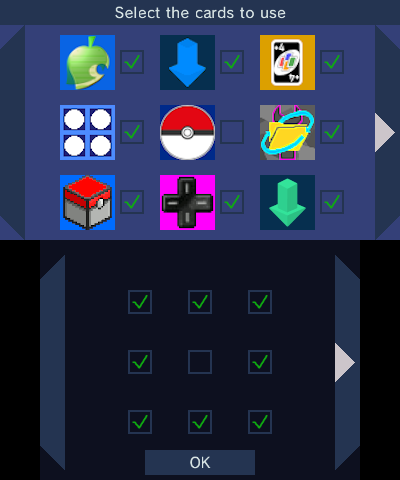
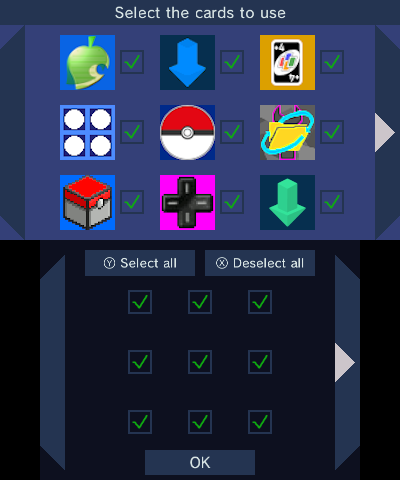
Add Select / Deselect all on the CardSelector Overlay.

Changed region(s): [[0.21, 0.5, 0.81, 0.5938], [0.57, 0.25, 0.6, 0.2812], [0.48, 0.75, 0.51, 0.7812]]

diff --git a/3ds/source/Overlays/Selectors/CardSelector.cpp b/3ds/source/Overlays/Selectors/CardSelector.cpp
@@ -48,6 +48,18 @@ void CardSelector::ToggleCard(const uint8_t Idx) {
 };
 
 
+/* Select ALL cards. */
+void CardSelector::SelectAll() {
+	for (size_t Idx = 0; Idx < this->Cards.size(); Idx++) this->Cards[Idx].first = true;
+};
+
+
+/* De-Select ALL cards. */
+void CardSelector::SelectNone() {
+	for (size_t Idx = 0; Idx < this->Cards.size(); Idx++) this->Cards[Idx].first = false;
+};
+
+
 /* Go to the previous page. */
 void CardSelector::PrevPage() {
 	if (this->Page > 0) {
@@ -218,13 +230,20 @@ void CardSelector::DrawBottom() {
 	/* Draw the Checkboxes. */
 	for (size_t Idx = (this->Page * 9), Idx2 = 0; Idx < (this->Page * 9) + 9 && Idx < this->Cards.size(); Idx++, Idx2++) {
 		GFX::DrawCheckbox(this->BottomPos[Idx2 + 2].X, this->BottomPos[Idx2 + 2].Y, this->Cards[Idx].first);
-	}
+	};
 
 	Gui::Draw_Rect(this->BottomPos[11].X, this->BottomPos[11].Y, this->BottomPos[11].W, this->BottomPos[11].H, BAR_BLUE);
 	Gui::DrawStringCentered(0, this->BottomPos[11].Y + 3, 0.6f, TEXT_WHITE, Lang::Get("OK"));
+
+	/* Select All / Deselect All. */
+	Gui::Draw_Rect(this->BottomPos[12].X, this->BottomPos[12].Y, this->BottomPos[12].W, this->BottomPos[12].H, BAR_BLUE, 100);
+	Gui::DrawStringCentered(-60, this->BottomPos[12].Y + 5, 0.5f, TEXT_WHITE, Lang::Get("SELECT_ALL"));
+	Gui::Draw_Rect(this->BottomPos[13].X, this->BottomPos[13].Y, this->BottomPos[13].W, this->BottomPos[13].H, BAR_BLUE, 100);
+	Gui::DrawStringCentered(60, this->BottomPos[13].Y + 5, 0.5f, TEXT_WHITE, Lang::Get("DESELECT_ALL"));
+
 	if (_3DZwei::CFG->DoAnimation() && _3DZwei::CFG->DoFade()) {
 		if (this->FAlpha > 0) Gui::Draw_Rect(0, 0, 320, 240, C2D_Color32(0, 0, 0, this->FAlpha));
-	}
+	};
 };
 
 
@@ -254,6 +273,9 @@ void CardSelector::Action() {
 
 			if (Repeat & KEY_L) this->PrevPage();
 			if (Repeat & KEY_R) this->NextPage();
+
+			if (Down & KEY_Y) this->SelectAll();
+			if (Down & KEY_X) this->SelectNone();
 
 			if (Repeat & KEY_A) {
 				for (auto &Position : this->Positions) {

diff --git a/3ds/source/Overlays/Selectors/CharacterSetSelector.cpp b/3ds/source/Overlays/Selectors/CharacterSetSelector.cpp
@@ -230,9 +230,9 @@ void CharacterSetSelector::DrawSetList(const int AddOffs) {
 void CharacterSetSelector::DrawCharBottom(const int AddOffs) {
 	/* Draw Cancel and Confirm buttons. */
 	Gui::Draw_Rect(this->BottomPos[2].X + AddOffs, this->BottomPos[2].Y, this->BottomPos[2].W, this->BottomPos[2].H, BAR_BLUE);
-	Gui::DrawStringCentered(-60 + AddOffs, this->BottomPos[2].Y + 15, 0.6f, TEXT_WHITE, Lang::Get("CANCEL"));
+	Gui::DrawStringCentered(-60 + AddOffs, this->BottomPos[2].Y + 15, 0.6f, TEXT_WHITE, Lang::Get("CANCEL"), 100);
 	Gui::Draw_Rect(this->BottomPos[3].X + AddOffs, this->BottomPos[3].Y, this->BottomPos[3].W, this->BottomPos[3].H, BAR_BLUE);
-	Gui::DrawStringCentered(60 + AddOffs, this->BottomPos[3].Y + 15, 0.6f, TEXT_WHITE, Lang::Get("CONFIRM"));
+	Gui::DrawStringCentered(60 + AddOffs, this->BottomPos[3].Y + 15, 0.6f, TEXT_WHITE, Lang::Get("CONFIRM"), 100);
 
 	GFX::DrawCornerEdge(true, this->BottomPos[0].X + AddOffs, this->BottomPos[0].Y, this->BottomPos[0].H, this->CharPage >= 1);
 	GFX::DrawCornerEdge(false, this->BottomPos[1].X + AddOffs, this->BottomPos[1].Y, this->BottomPos[1].H, this->CanGoNext());

diff --git a/3ds/source/Overlays/Selectors/CardSetSelector.cpp b/3ds/source/Overlays/Selectors/CardSetSelector.cpp
@@ -254,9 +254,9 @@ void CardSetSelector::DrawCardBottom(const int AddOffs) {
 
 	/* Draw Cancel and Confirm buttons. */
 	Gui::Draw_Rect(this->BottomPos[11].X + AddOffs, this->BottomPos[11].Y, this->BottomPos[11].W, this->BottomPos[11].H, BAR_BLUE);
-	Gui::DrawStringCentered(-60 + AddOffs, this->BottomPos[11].Y + 3, 0.6f, TEXT_WHITE, Lang::Get("CANCEL"));
+	Gui::DrawStringCentered(-60 + AddOffs, this->BottomPos[11].Y + 3, 0.6f, TEXT_WHITE, Lang::Get("CANCEL"), 100);
 	Gui::Draw_Rect(this->BottomPos[12].X + AddOffs, this->BottomPos[12].Y, this->BottomPos[12].W, this->BottomPos[12].H, BAR_BLUE);
-	Gui::DrawStringCentered(60 + AddOffs, this->BottomPos[12].Y + 3, 0.6f, TEXT_WHITE, Lang::Get("CONFIRM"));
+	Gui::DrawStringCentered(60 + AddOffs, this->BottomPos[12].Y + 3, 0.6f, TEXT_WHITE, Lang::Get("CONFIRM"), 100);
 
 	/* Draw the Checkboxes for toggling the back cover. */
 	for (size_t Idx = (this->CardPage * CARDS_PER_SCREEN), Idx2 = 0; Idx < ((size_t)this->CardPage * CARDS_PER_SCREEN) + CARDS_PER_SCREEN && Idx < this->CardFlipped.size(); Idx++, Idx2++) {

diff --git a/3ds/include/Overlays/Selectors/CardSelector.hpp b/3ds/include/Overlays/Selectors/CardSelector.hpp
@@ -47,6 +47,8 @@ private:
 	bool CanGoNext() const;
 	void OK();
 	void ToggleCard(const uint8_t Idx);
+	void SelectAll();
+	void SelectNone();
 
 	void DrawTop();
 	void DrawBottom();
@@ -99,7 +101,9 @@ private:
 		{ 148, 170, 24, 24, [this]() { this->ToggleCard(7); } },
 		{ 208, 170, 24, 24, [this]() { this->ToggleCard(8); } },
 
-		{ 105, 210, 110, 25, [this]() { this->OK(); } }
+		{ 105, 210, 110, 25, [this]() { this->OK(); } },
+		{ 45, 10, 110, 26, [this]() { this->SelectAll(); } },
+		{ 165, 10, 110, 26, [this]() { this->SelectNone(); } }
 	};
 };
 
